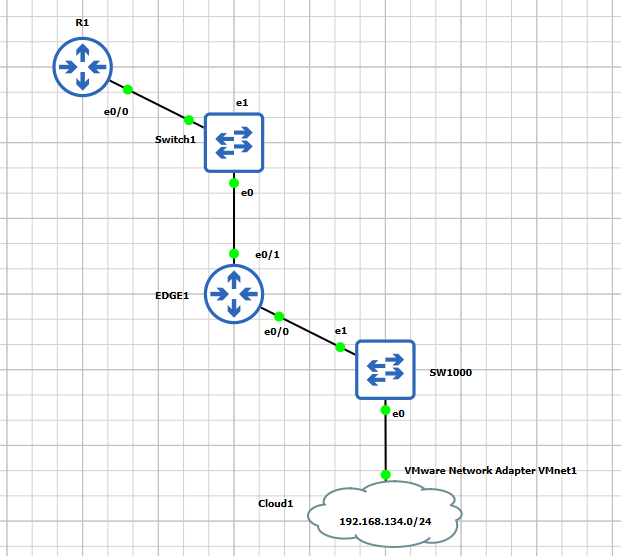
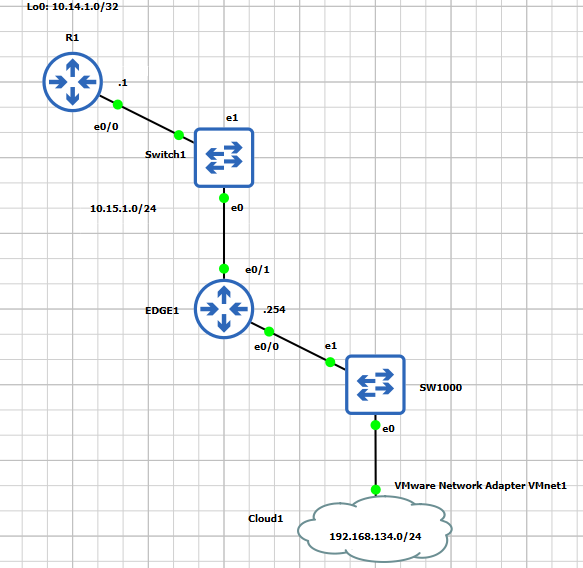
docs: Update figure in mega-lab topology, update readme

Changed region(s): [[0.0, 0.0, 1.0, 1.0]]

diff --git a/README.md b/README.md
@@ -31,3 +31,6 @@ automation.
 - [Configure ssh, netconf, restconf for cisco_ios_xe_16.6](docs/COMET/00_configure_ssh_netconf_restconf_cisco_ios_16.6.ipynb)
 - [Using ncclient to connect to router](docs/COMET/01_using_ncclient_to_connect_to_router.ipynb)
  
+ 
+### 4. Mega-Lab with 200 routers + Nornir, Ansible
+- [Set up mega-lab](/docs/MEGA-LAB/00_lab_setup.ipynb)
